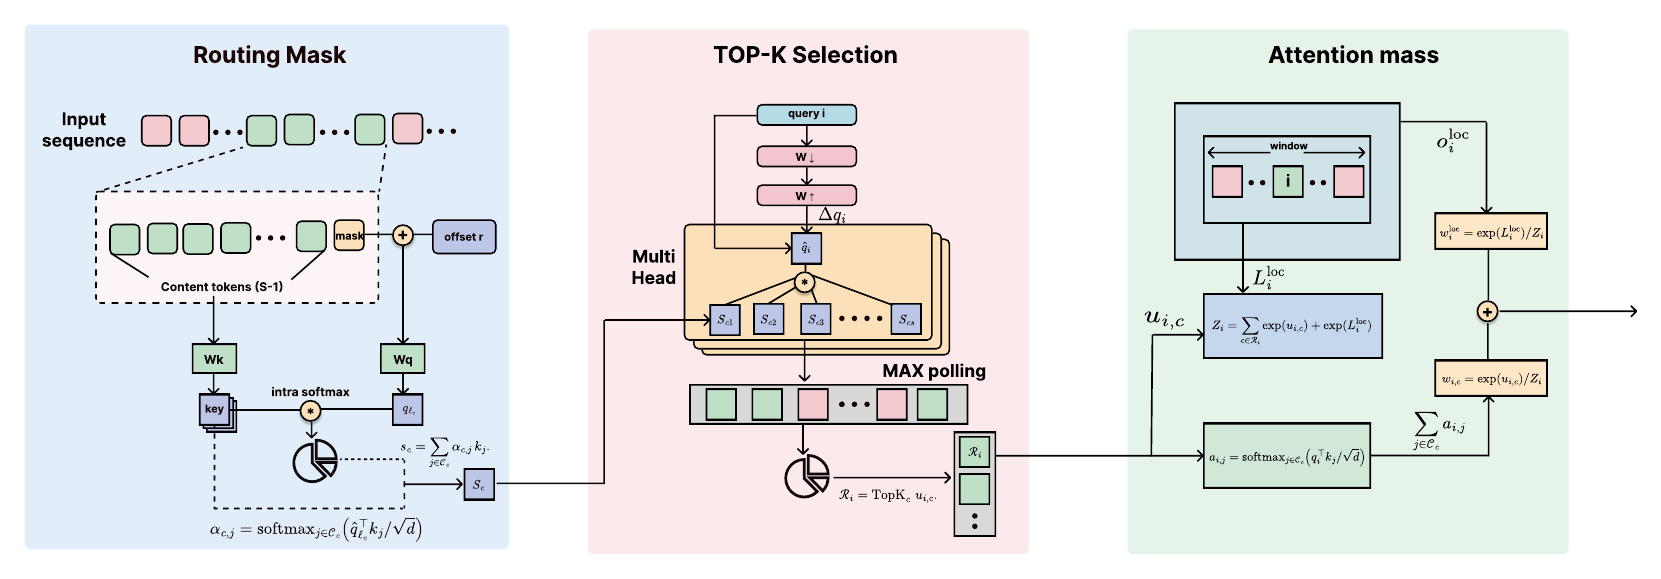
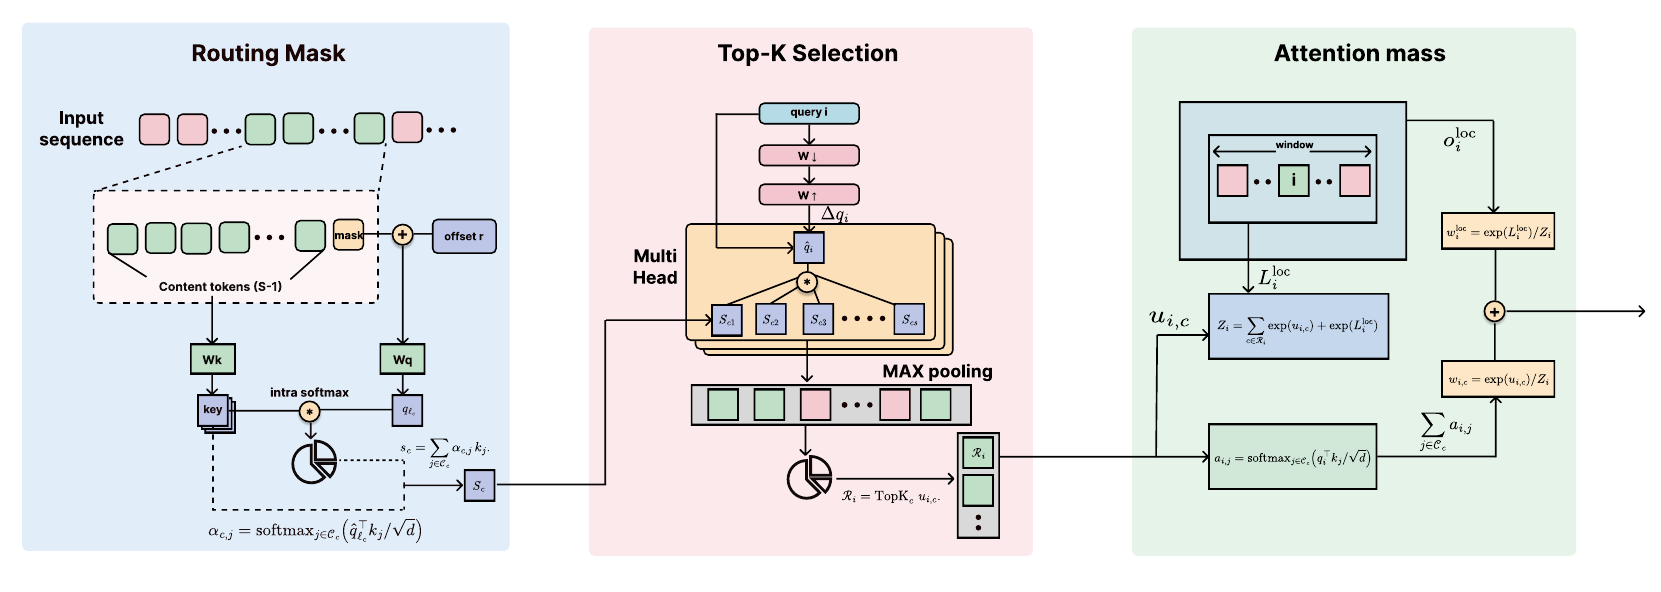
Align the v2 page with the preprint and credit SGLang
Report both ablation tables at the fixed YaRN factor, state that the RULER
tasks come from our own generator, correct the margin sentence, and replace
the route-layer figure. Add a "Powered by SGLang" link to both footers.

diff --git a/v2/index.html b/v2/index.html
@@ -55,10 +55,10 @@
           <div class="visual-shell">
             <div class="window-bar" aria-hidden="true">
               <span class="window-dot"></span><span class="window-dot"></span><span class="window-dot"></span>
-              <span class="window-label">mean accuracy on three RULER probes</span>
+              <span class="window-label">mean accuracy on three RULER tasks</span>
             </div>
             <figure>
-              <img src="../static/images/v2/mean-accuracy.png" alt="Mean accuracy of SWA, DSA, NSA and ours on three RULER probes at 16K, 32K, 64K and 128K context">
+              <img src="../static/images/v2/mean-accuracy.png" alt="Mean accuracy of SWA, DSA, NSA and ours on three RULER tasks at 16K, 32K, 64K and 128K context">
               <figcaption class="visual-caption"><strong>Ahead of the other sparse methods at every length.</strong> Mean accuracy over single-needle, multi-key and variable tracking, with the YaRN factor scaled to the evaluation length.</figcaption>
             </figure>
           </div>
@@ -143,7 +143,7 @@
 
         <div class="feature-grid">
           <article class="feature-card card reveal"><span class="feature-index">/ 01</span><h3>Routing mask</h3><p>The mask at the end of a chunk keeps its embedding and gets one learned offset at the input. Its query runs a softmax over the chunk's content keys, and the weighted sum is the chunk summary.</p><p class="formula">s<sub>c</sub> = Σ<sub>j</sub> α<sub>c,j</sub> k<sub>j</sub></p></article>
-          <article class="feature-card card reveal"><span class="feature-index">/ 02</span><h3>Top-K selection</h3><p>A rank-64 residual calibrates the scoring query. The score of a chunk is the query's agreement with its summary plus the entropy of the pooling weights; query heads that share a key head choose chunks together.</p><p class="formula">u<sub>i,c</sub> = q̂<sub>i</sub>ᵀs<sub>c</sub>/√d + H(α<sub>c</sub>)</p></article>
+          <article class="feature-card card reveal"><span class="feature-index">/ 02</span><h3>Top-K selection</h3><p>A rank-64 residual calibrates the scoring query. The score of a chunk is the similarity between the query and its summary plus the entropy of the pooling weights; query heads that share a key head choose chunks together.</p><p class="formula">u<sub>i,c</sub> = q̂<sub>i</sub>ᵀs<sub>c</sub>/√d + H(α<sub>c</sub>)</p></article>
           <article class="feature-card card reveal"><span class="feature-index">/ 03</span><h3>Attention mass</h3><p>The scores of the selected chunks and the log-sum-exp of the local window are normalized in one partition. A second softmax spreads each chunk's share over its content tokens.</p><p class="formula">o<sub>i</sub> = Σ<sub>c</sub> w<sub>i,c</sub> Σ<sub>j</sub> a<sub>i,j</sub> v<sub>j</sub> + w<sub>i</sub><sup>loc</sup> o<sub>i</sub><sup>loc</sup></p></article>
         </div>
 
@@ -174,7 +174,7 @@
             <p class="section-kicker">03 · Results</p>
             <h2 class="section-title">Trained at 16K, still routing at 128K.</h2>
           </div>
-          <p class="section-intro">Three RULER probes, 100 examples each. Pick a length, and whether the YaRN factor is scaled to that length or held at the training value of 8. The underline marks the best sparse model.</p>
+          <p class="section-intro">Three RULER task families, 100 examples each, produced by our own generator rather than the official release; the decoder is given the length of the gold answer. Pick a length, and whether the YaRN factor is scaled to that length or held at the training value of 8. The underline marks the best sparse model.</p>
         </div>
 
         <div class="table-shell card reveal" data-table="ruler">
@@ -188,8 +188,8 @@
         </div>
 
         <div class="feature-grid two">
-          <article class="feature-card card reveal"><span class="feature-index">/ where it wins</span><h3>Localized evidence</h3><p>The margin is carried by single-needle retrieval: 100.0, 99.0, 98.0 and 95.0 from 16K to 128K, against 81.0, 87.0, 86.0 and 83.0 for NSA. With the factor held at 8 it stays at 99.0 or above while full dense falls to 94.0 at 64K.</p></article>
-          <article class="feature-card card reveal"><span class="feature-index">/ where it does not</span><h3>Scattered evidence and coverage</h3><p>Multi-key and variable tracking stay far below full dense, because one missed chunk fails the example. On LongBench the order reverses: the all-window model averages 30.9, ours 25.4, full dense 44.3. A wide window beats a few selected chunks when most of the document matters.</p></article>
+          <article class="feature-card card reveal"><span class="feature-index">/ where it wins</span><h3>Localized evidence</h3><p>Single-needle retrieval is 100.0, 99.0, 98.0 and 95.0 from 16K to 128K, against 81.0, 87.0, 86.0 and 83.0 for NSA; it contributes most of the margin at 16K and 128K, and multi-key retrieval contributes most of it at 32K and 64K. With the factor held at 8 it stays at 99.0 or above while full dense falls to 94.0 at 64K.</p></article>
+          <article class="feature-card card reveal"><span class="feature-index">/ where it does not</span><h3>Scattered evidence and coverage</h3><p>Multi-key and variable tracking stay far below full dense, because missing one chunk is enough to get an example wrong. On LongBench the order reverses: the all-window model averages 30.9, ours 25.4, full dense 44.3. A wide window beats a few selected chunks when most of the document matters.</p></article>
         </div>
       </div>
     </section>
@@ -314,6 +314,7 @@
   <footer class="footer">
     <div class="footer-inner">
       <span>Prefilling-dLLM v2 · learned routing for long contexts</span>
+      <span>Powered by <a href="https://github.com/sgl-project/sglang" target="_blank" rel="noopener noreferrer">SGLang</a></span>
       <span><a href="../">v1</a> · <a href="#results">Results</a></span>
     </div>
   </footer>
@@ -409,24 +410,24 @@
         ablation: {
           tabs: [
             { label: 'Components', columns: ['16K', '32K', '64K', '128K'], rowHeader: 'Variant',
-              note: 'mean of the three probes · YaRN scaled to length',
+              note: 'mean of the three tasks · YaRN factor fixed at 8',
               groups: [{ rank: true, rows: [
-                { name: 'Ours', ours: true, values: [53.8, 54.7, 52.3, 47.7] },
-                { name: 'Mean summary instead of attention pool', values: [49.9, 43.3, 40.3, 35.0] },
-                { name: 'No entropy prior', values: [40.7, 38.8, 37.3, 27.1] },
-                { name: 'No query residual', values: [27.2, 19.1, 12.9, 6.3] },
-                { name: 'No role offset', values: [11.5, 9.0, 6.0, 4.8] }
+                { name: 'Ours', ours: true, values: [53.8, 50.7, 48.0, 46.5] },
+                { name: 'Mean summary instead of attention pool', values: [56.5, 56.6, 52.1, 35.9] },
+                { name: 'No entropy prior', values: [40.7, 38.8, 37.3, 27.3] },
+                { name: 'No role offset', values: [40.5, 39.7, 41.3, 37.3] },
+                { name: 'No query residual', values: [26.0, 19.1, 12.9, 9.1] }
               ] }],
-              caption: 'Each row removes one piece. The role offset is what marks the mask as a routing slot: without it the mean falls to 11.5 at 16K.'
+              caption: 'Each row removes one piece. Removing the query residual costs the most. The mean summary is higher through 64K and falls behind at 128K.'
             },
             { label: 'Routing token', columns: ['16K', '32K', '64K', '128K'], rowHeader: 'Token in the routing slot',
-              note: 'mean of the three probes · YaRN scaled to length',
+              note: 'mean of the three tasks · YaRN factor fixed at 8',
               groups: [{ rank: true, rows: [
-                { name: 'Native mask (ours)', ours: true, values: [53.8, 54.7, 52.3, 47.7] },
-                { name: 'New learned token', values: [41.3, 40.1, 40.1, 31.0] },
-                { name: 'EOS', values: [10.0, 4.6, 4.1, null] }
+                { name: 'Native mask (ours)', ours: true, values: [53.8, 50.7, 48.0, 46.5] },
+                { name: 'New learned token', values: [38.9, 37.9, 39.9, 30.7] },
+                { name: 'EOS', values: [37.5, 36.2, 31.8, 22.8] }
               ] }],
-              caption: 'The same recipe with another token in the routing slot. The 128K run with EOS was not run.'
+              caption: 'The same recipe with another token in the routing slot, in training and at evaluation. Both replacements lose most multi-key retrieval.'
             }
           ]
         }

diff --git a/index.html b/index.html
@@ -286,6 +286,7 @@
   <footer class="footer">
     <div class="footer-inner">
       <span>Prefilling-dLLM · prefill once, decode over the chunks that matter</span>
+      <span>Powered by <a href="https://github.com/sgl-project/sglang" target="_blank" rel="noopener noreferrer">SGLang</a></span>
       <span><a href="https://arxiv.org/abs/2606.10537" target="_blank" rel="noopener noreferrer">Paper</a> · <a href="https://github.com/menik1126/Prefilling-dLLM" target="_blank" rel="noopener noreferrer">Code</a> · <a href="./v2/">v2</a></span>
     </div>
   </footer>
